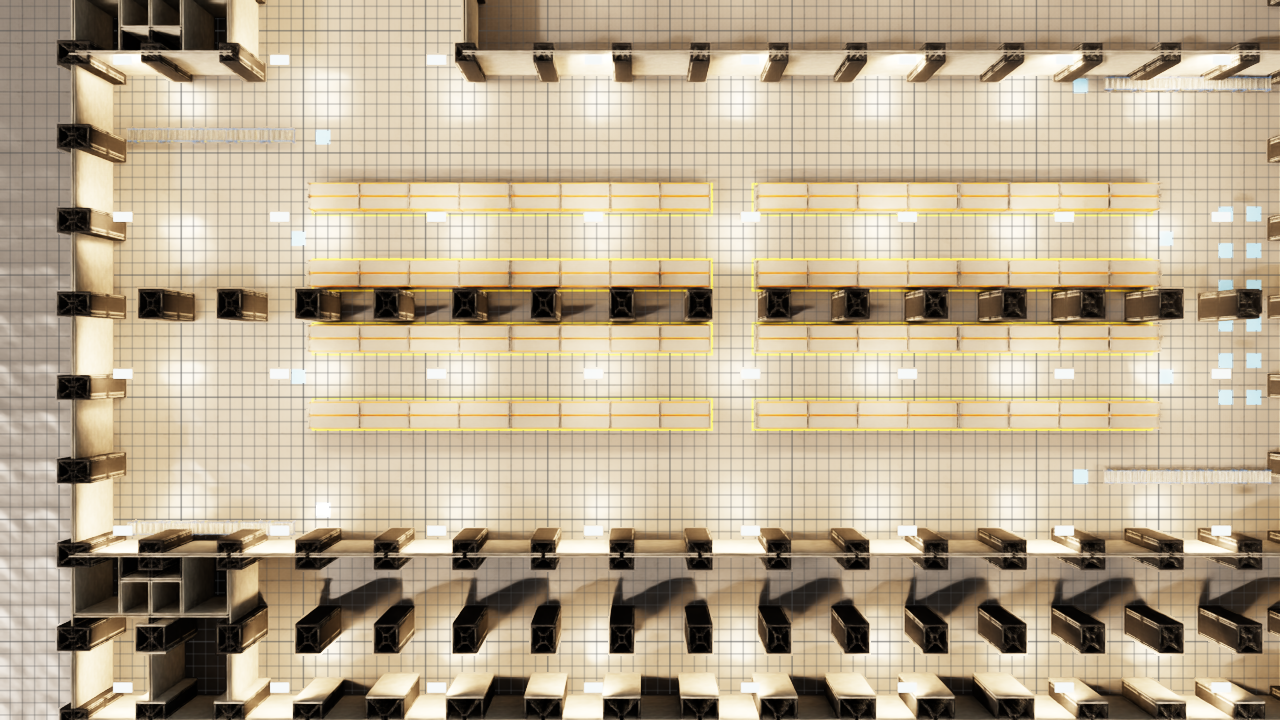
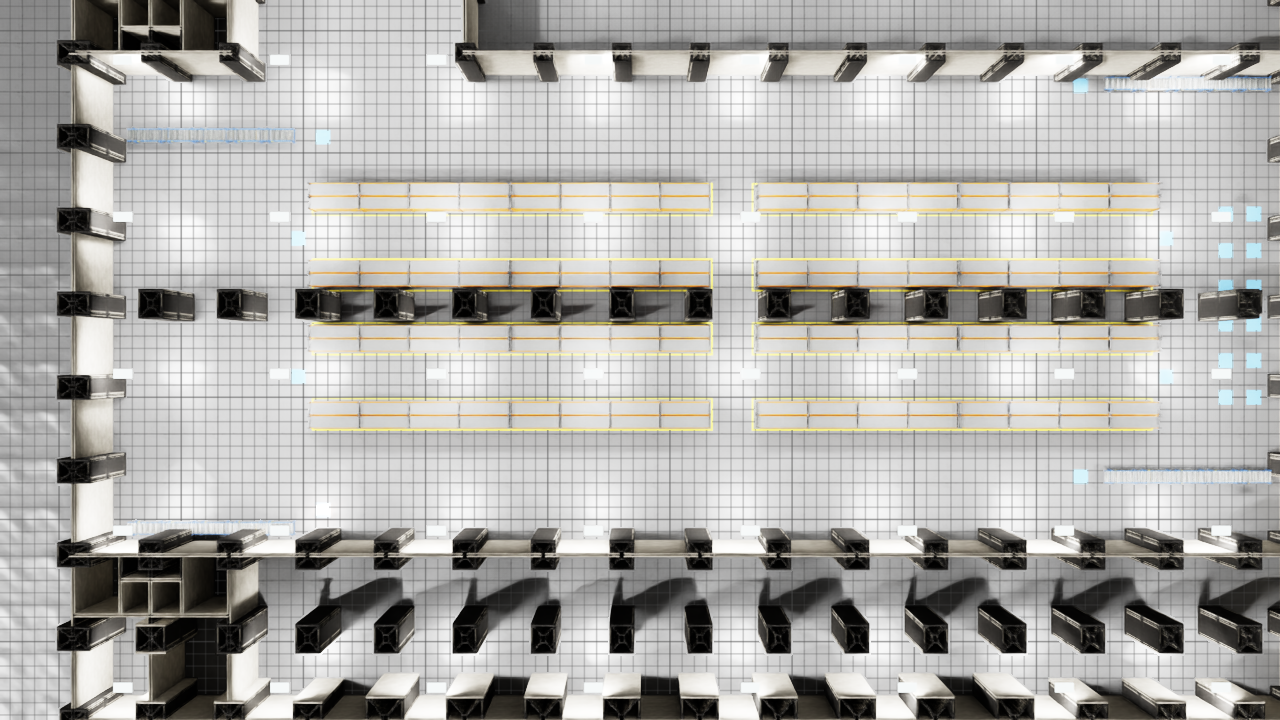
feat: 조명 백색 복귀 — 색온도 제거(현수등·태양), 베이지 벽 틴트는 유지

diff --git a/sil/t3_warehouse/build_scene.py b/sil/t3_warehouse/build_scene.py
@@ -195,8 +195,6 @@ bind_mdl(stage, floor, "MI_Floor_01", MAT_DIR + "/MI_Floor_01.mdl")
 # 개방 지붕 — 태양광(그림자·전역 밝기) + 조명 그리드(현수등, z 7.8~7.95 라이다 밴드 밖)
 sun = UsdLux.DistantLight.Define(stage, "/World/sun")
 sun.CreateIntensityAttr(1200)
-sun.CreateEnableColorTemperatureAttr(True)
-sun.CreateColorTemperatureAttr(5000.0)                    # 약간 따뜻한 주광
 UsdGeom.Xformable(sun.GetPrim()).AddRotateXYZOp().Set(Gf.Vec3f(0, -35, 25))
 UsdGeom.Xform.Define(stage, "/World/lights")
 n_light = 0
@@ -205,8 +203,6 @@ for gx in range(18, 111, 12):
         L = UsdLux.RectLight.Define(stage, f"/World/lights/L_{gx}_{gy}")
         L.CreateIntensityAttr(30000)
         L.CreateExposureAttr(5.0)                         # x32 — 30000 단독으론 실내가 암흑 (실측)
-        L.CreateEnableColorTemperatureAttr(True)
-        L.CreateColorTemperatureAttr(3800.0)              # 온백색(약간 황색) 산업등
         L.CreateWidthAttr(1.2)
         L.CreateHeightAttr(0.6)
         xfl = UsdGeom.Xformable(L.GetPrim())
